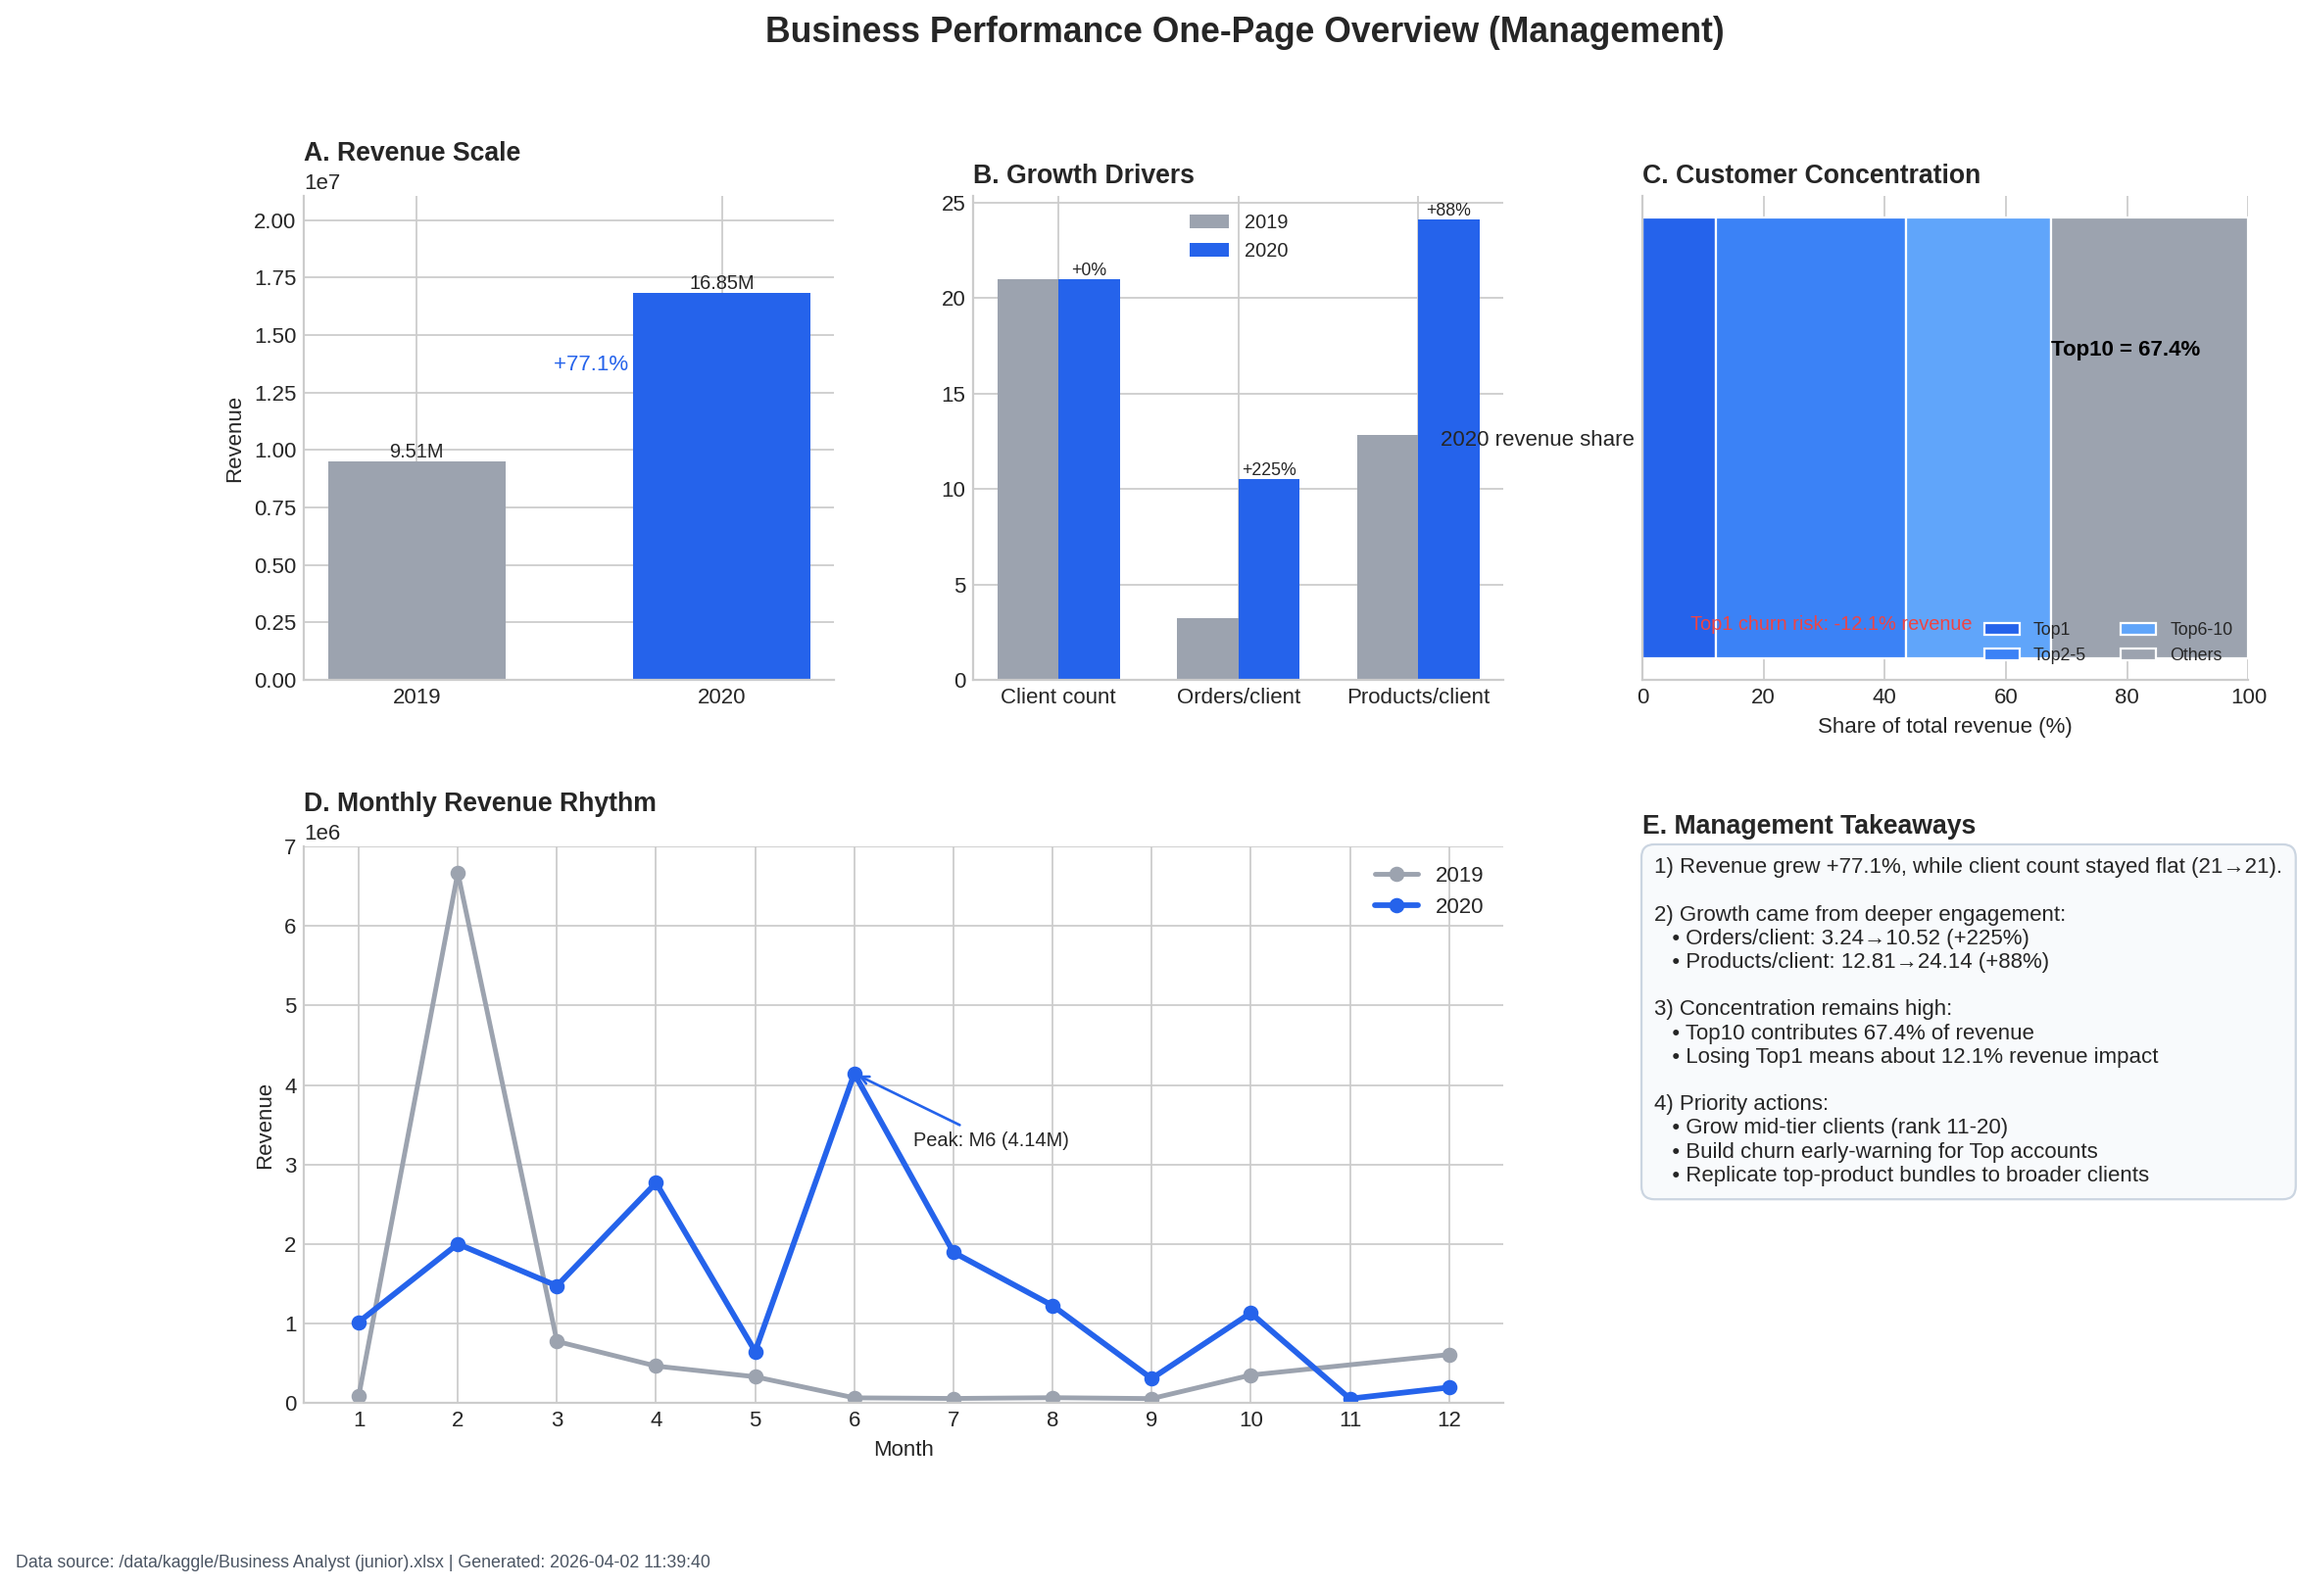
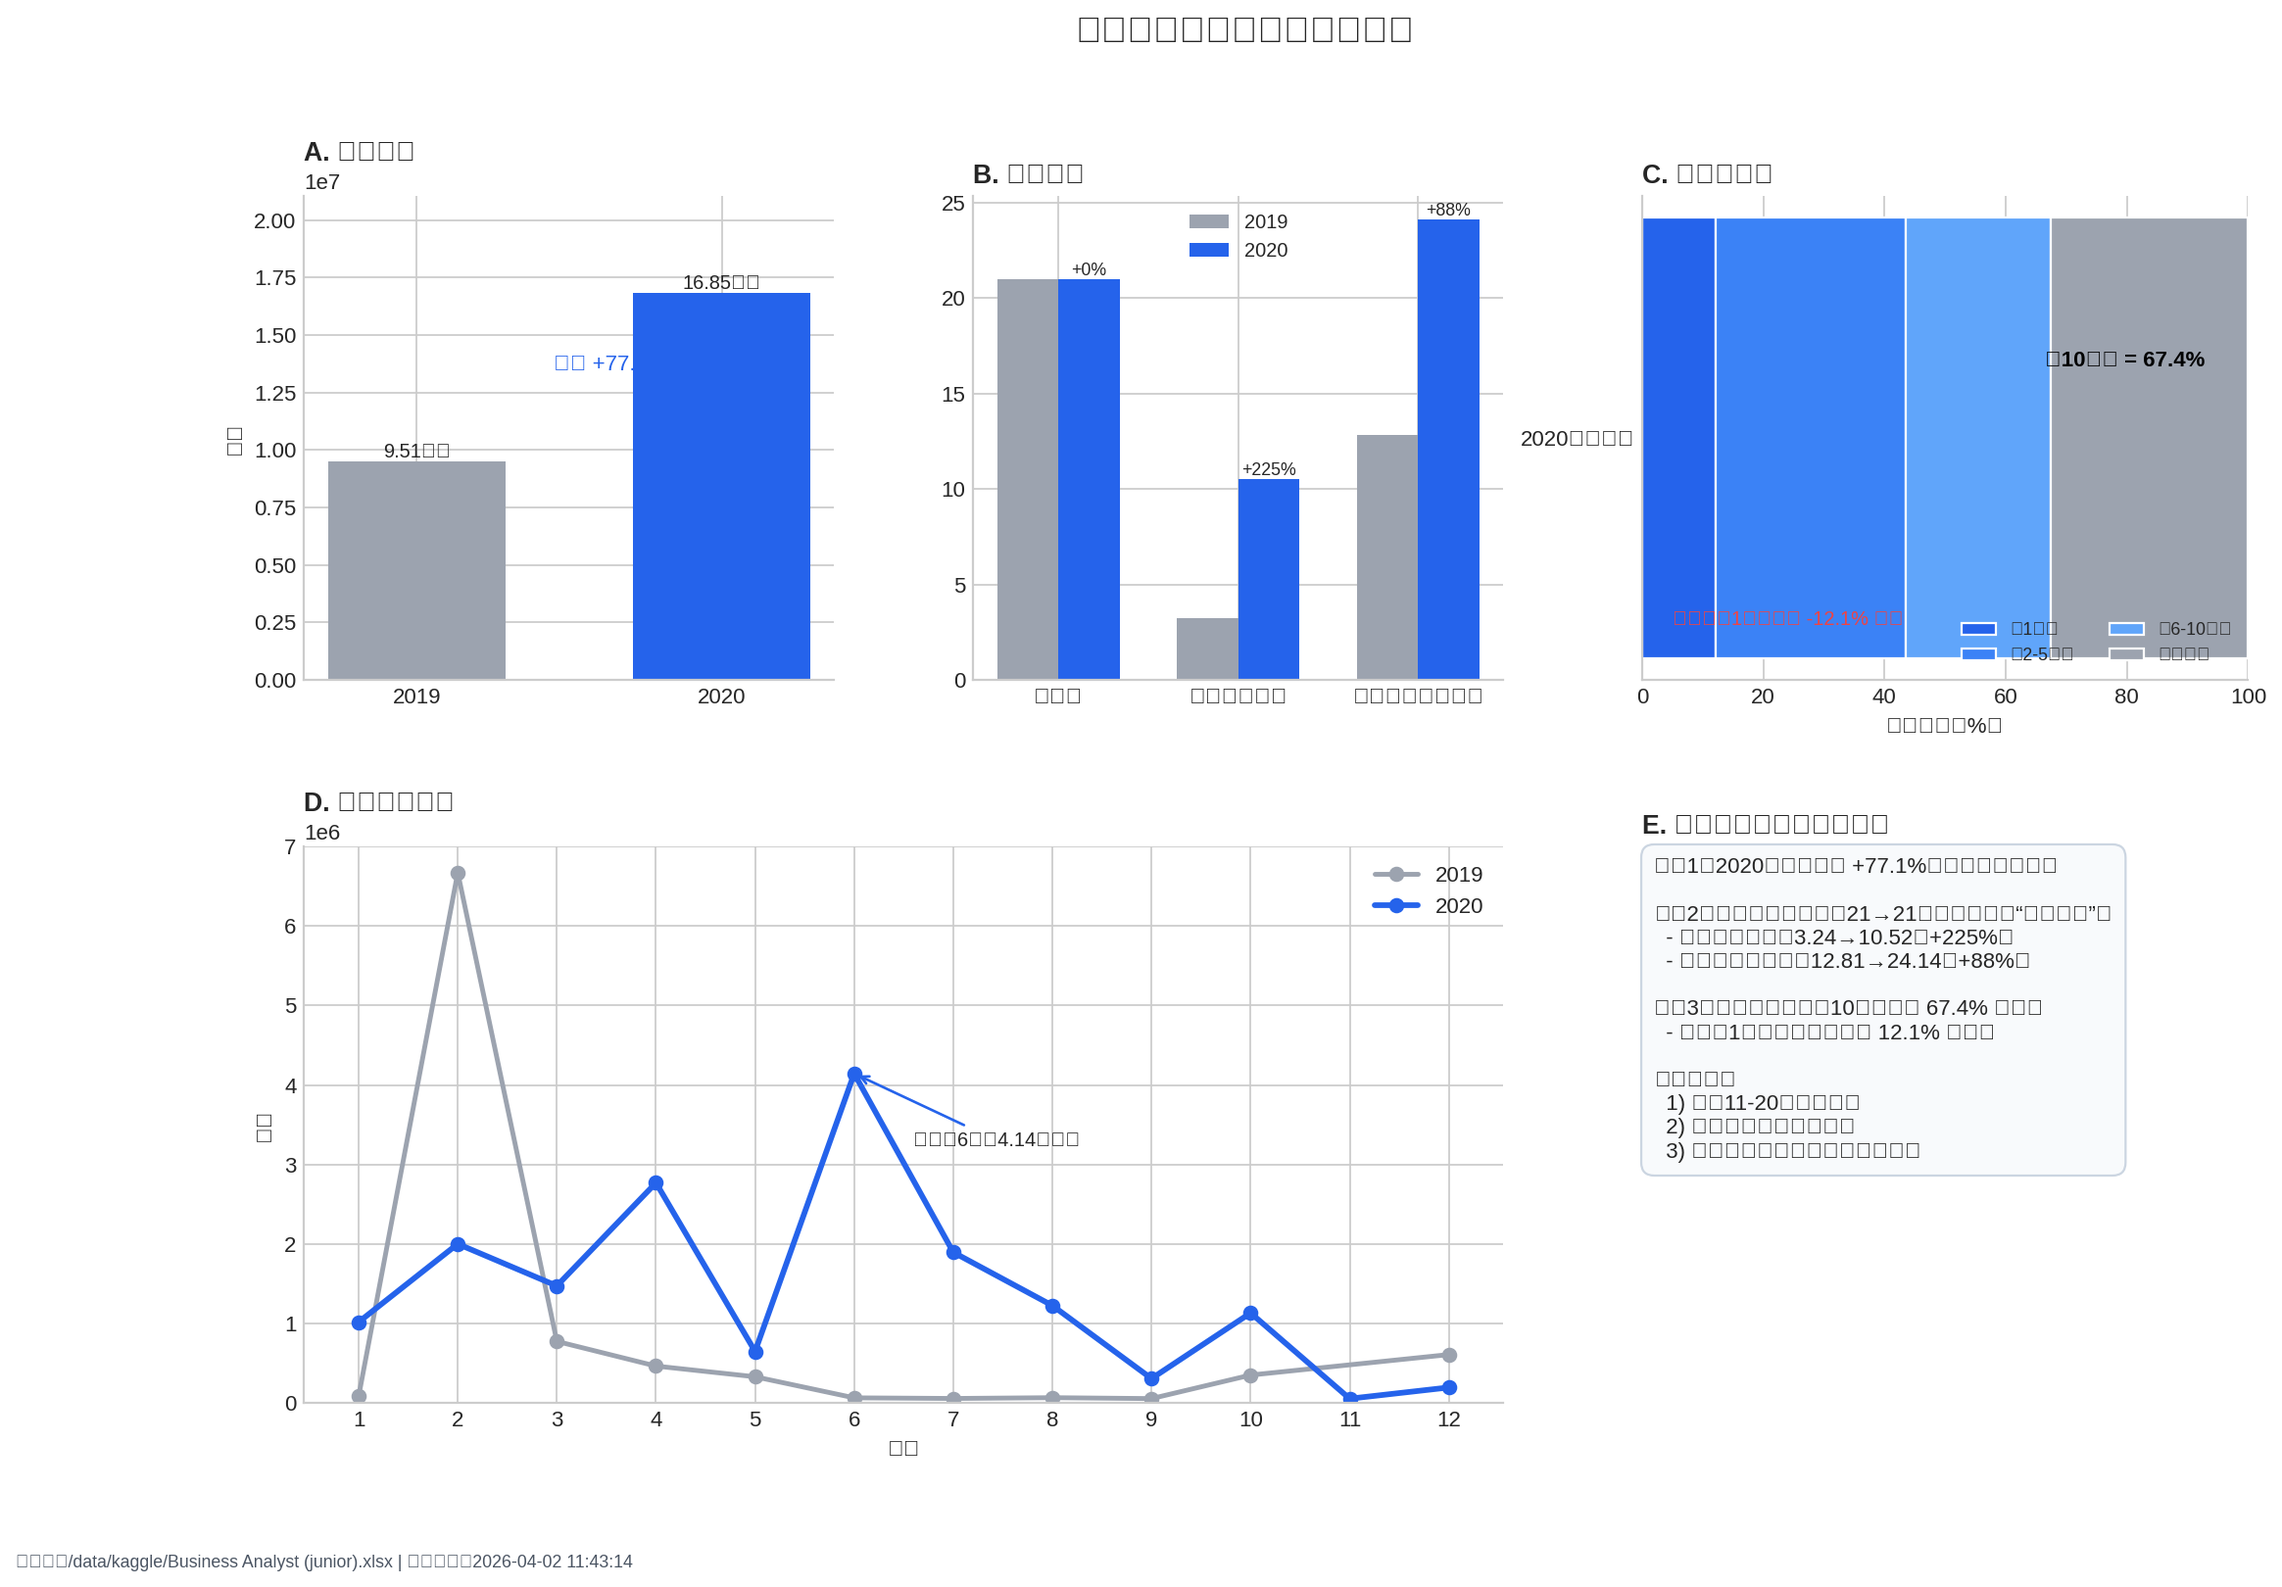
Switch one-page overview annotations to Chinese

diff --git a/reports/one-page-overview.md b/reports/one-page-overview.md
@@ -1,5 +1,5 @@
 # 一页总览（管理层）
 
-下图已将关键数据与结论合并在一张图中，适合会议直接展示。
+下图已将关键数据、结论和行动建议合并在同一张图中，且所有标注均为中文，可直接用于经营会议展示。
 
-![Business One Page Overview](assets/business-analyst-one-page-overview.png)
+![业务经营一页总览（中文标注）](assets/business-analyst-one-page-overview.png)
